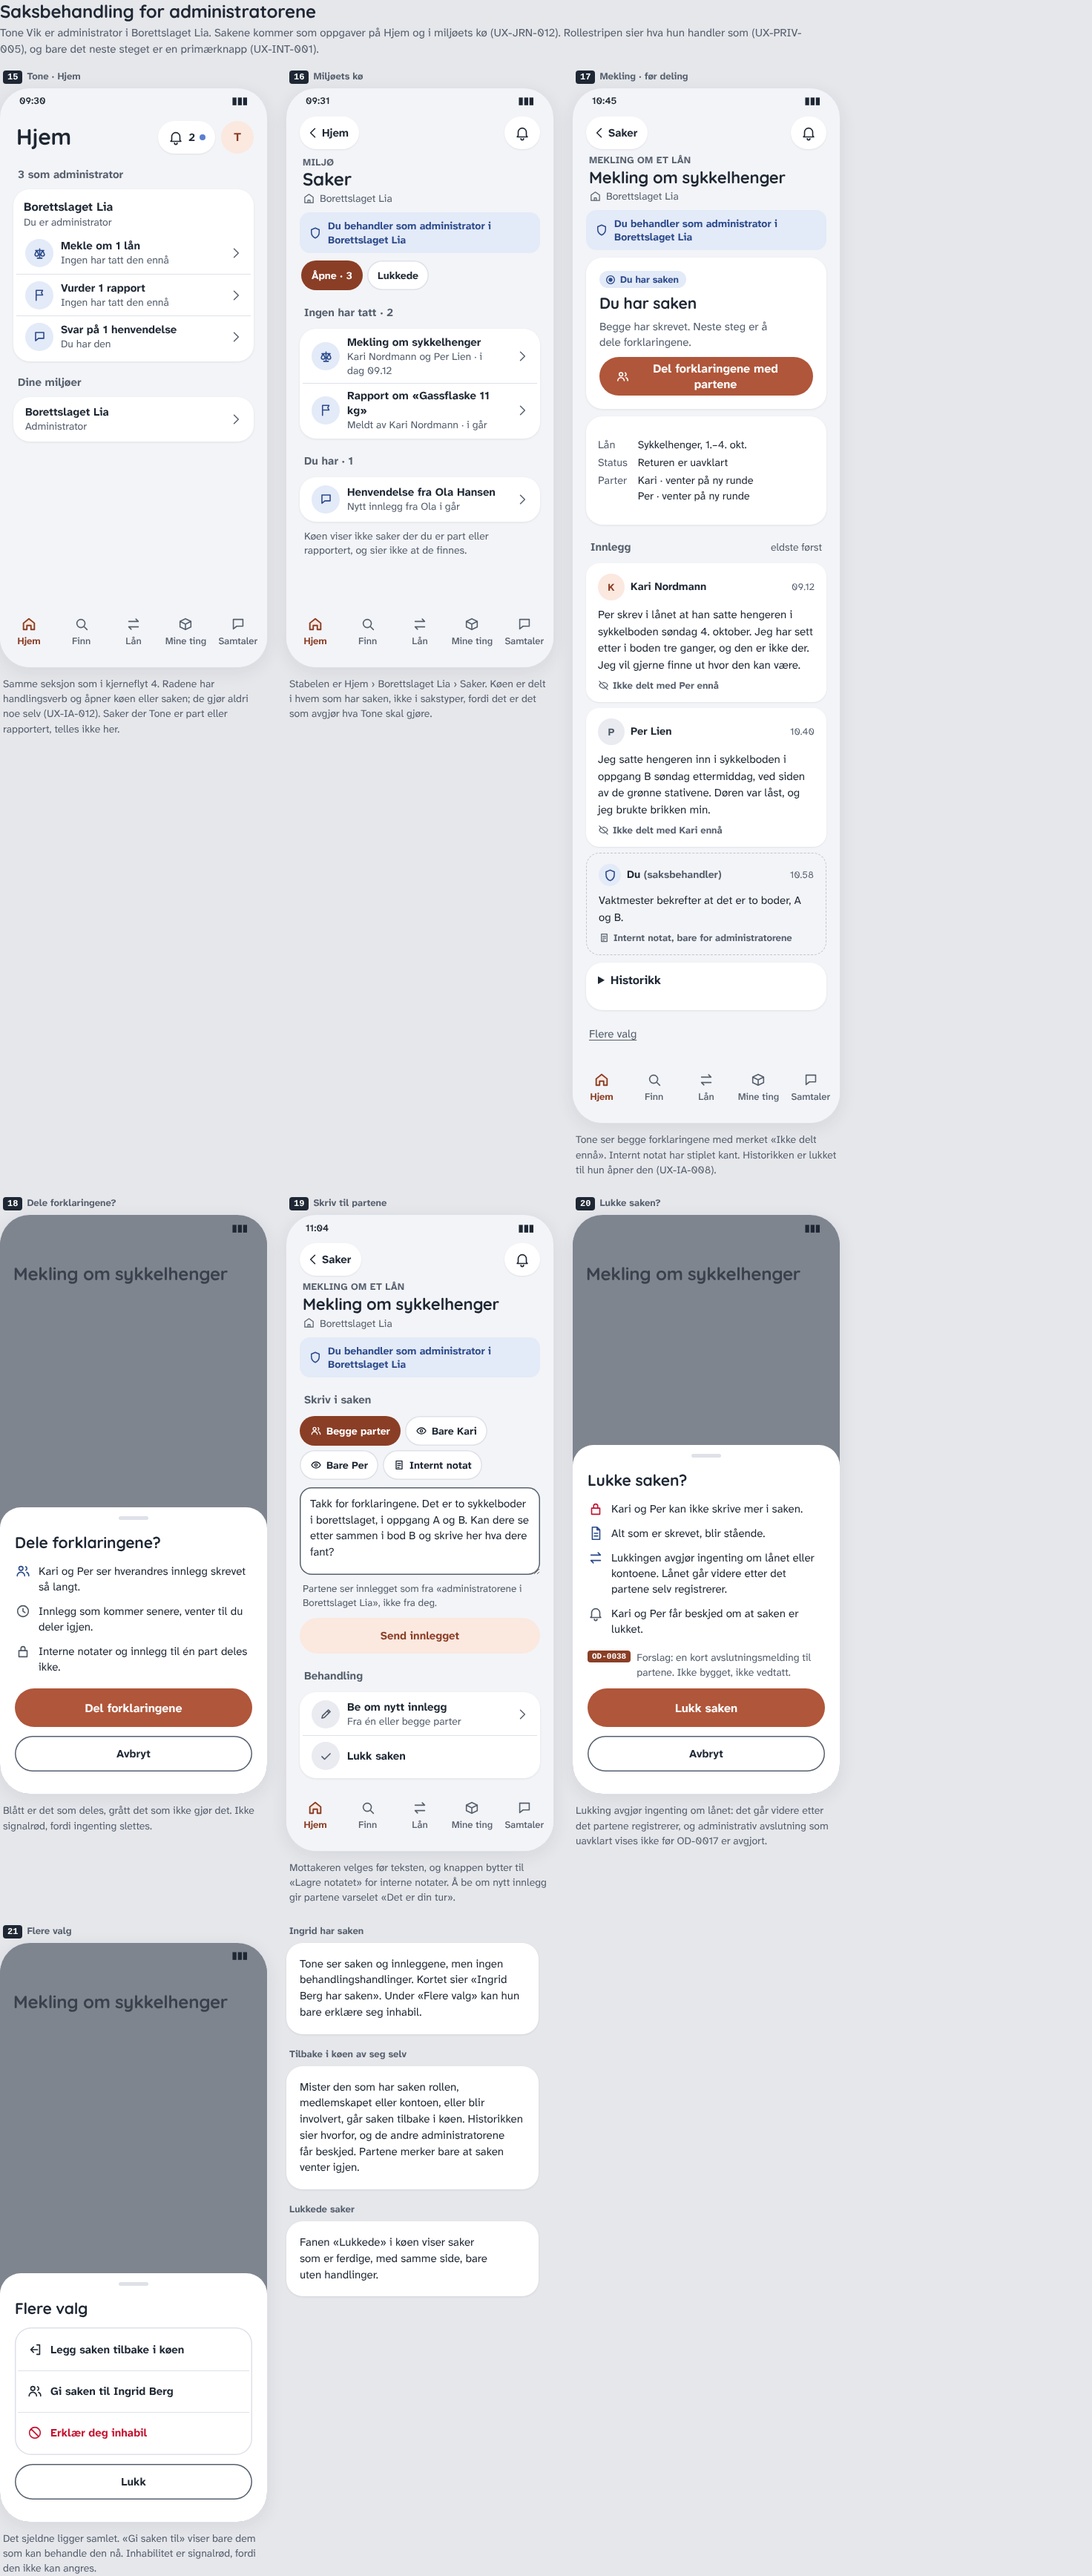
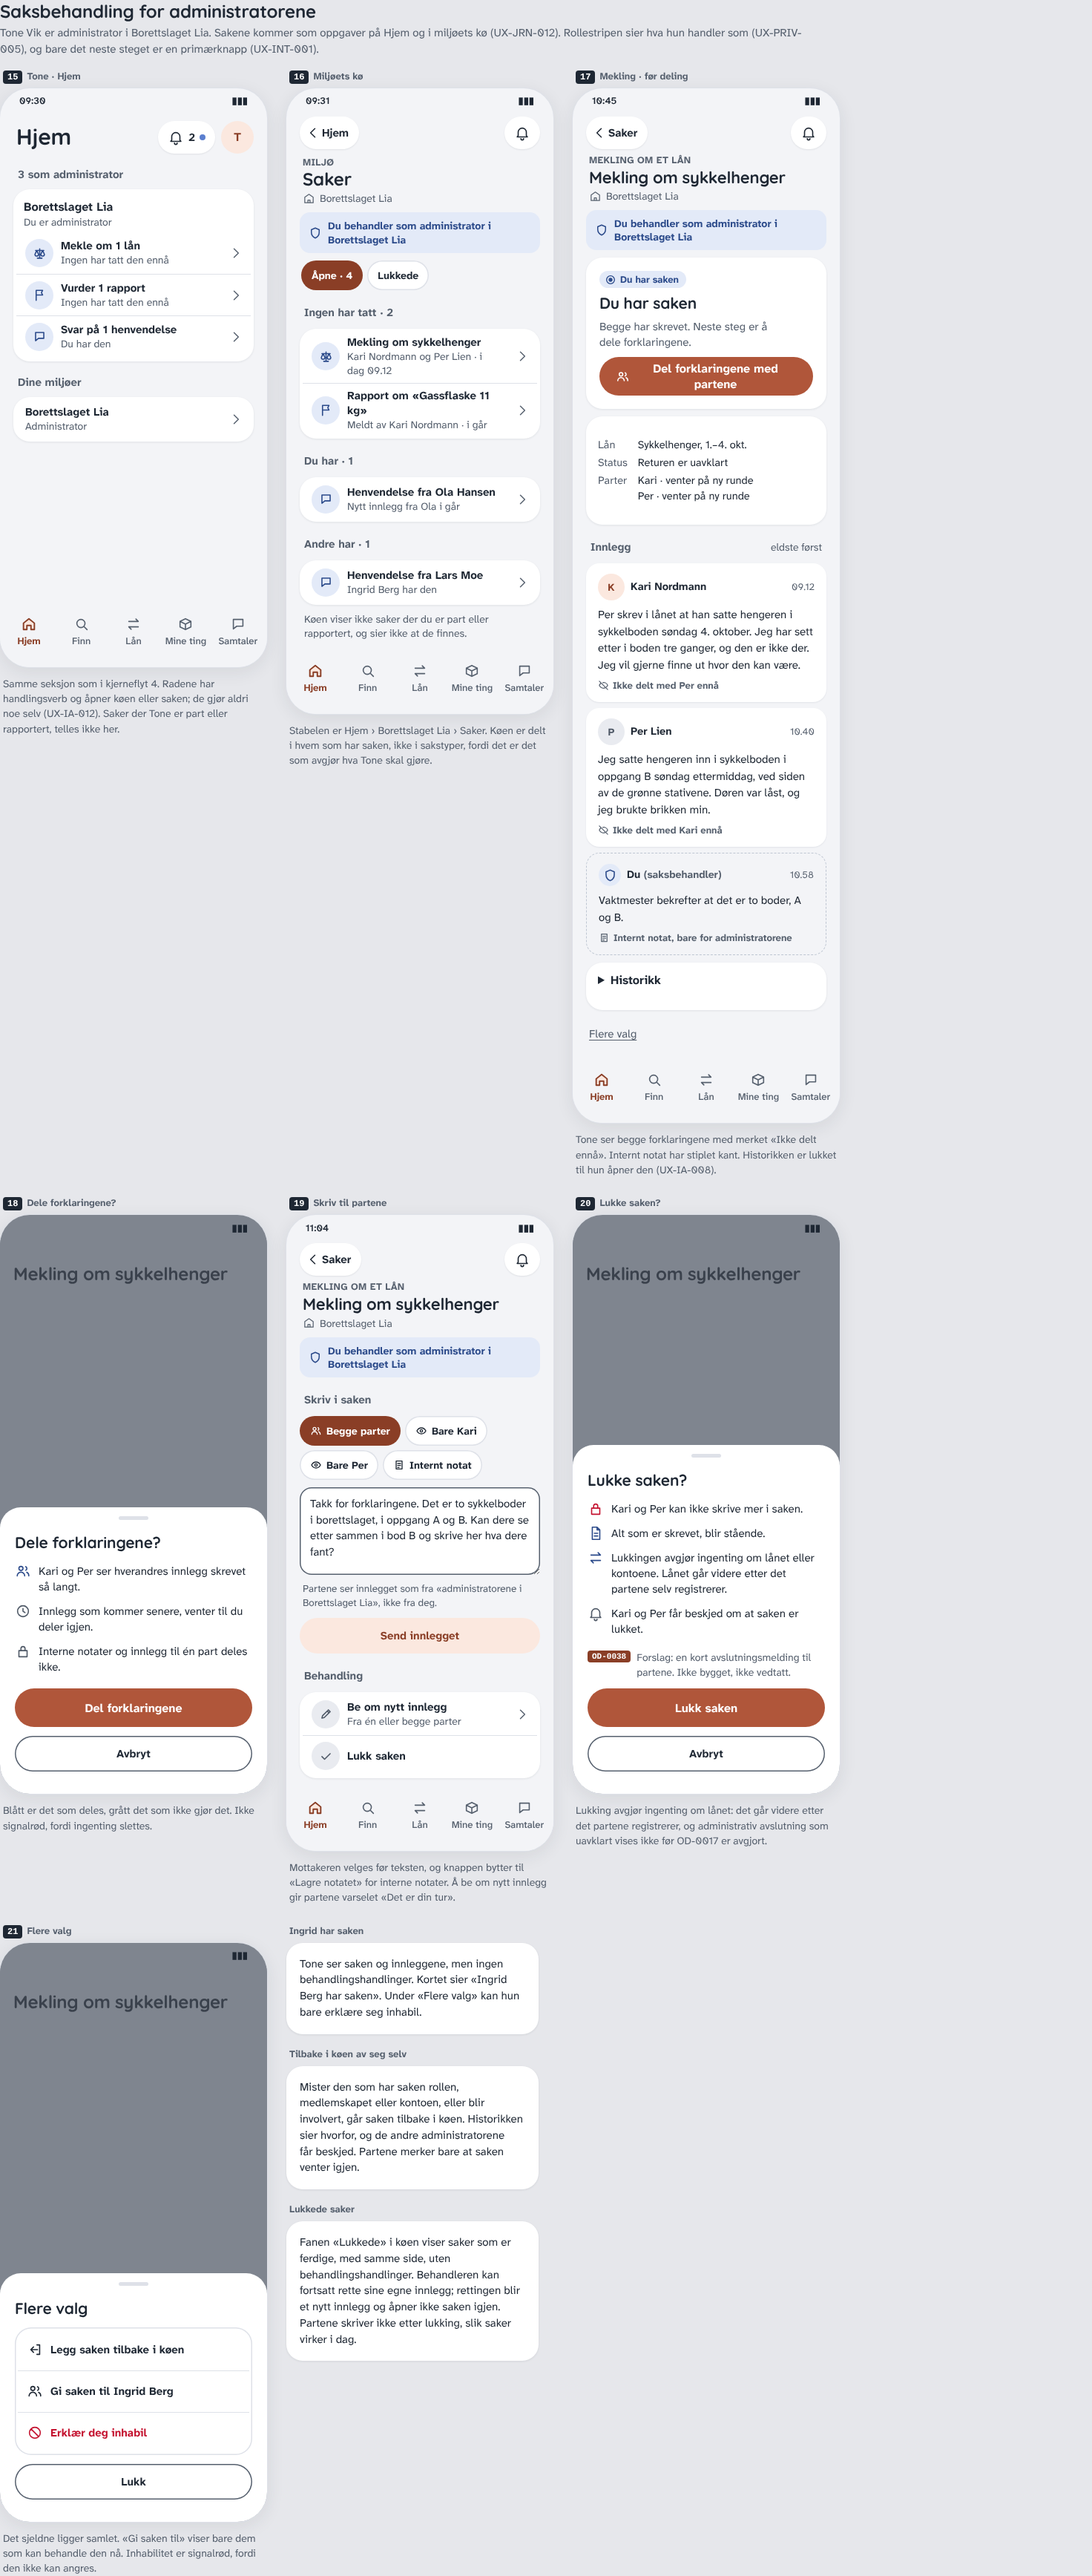
Design KF8: vis saker andre administratorer har, og behold retting etter lukking
Køen får gruppen «Andre har», slik skjerminventaret krever. En lukket sak
mister behandlingshandlingene, men behandleren kan fortsatt rette egne
innlegg som et nytt innlegg, slik domenet allerede tillater.

Claude-Session: https://claude.ai/code/session_01CesZaW8LjpHQNGPhPixaXf

Changed region(s): [[0.2812, 0.1867, 0.5, 0.3111], [0.25, 0.8712, 0.5, 0.9334]]

diff --git a/design/Lånbort - Rapportering, saker og konfliktløsning v1.html b/design/Lånbort - Rapportering, saker og konfliktløsning v1.html
@@ -398,7 +398,7 @@ const LIVE0 = () => ({
   entries:[{ id:1, by:'kari', cap:'party', aud:'parties', body:TXT.kari1, at:'09.12' }], next:2,
   may:{ kari:false, per:true }, assignee:null, recused:false, sharedUpTo:null, closed:false,
   sheet:{ kari:null, per:null, tone:null }, flash:{ kari:'', per:'', tone:'' }, aud:'parties',
-  draft:{ kari:TXT.kari2, per:TXT.per1, tone:TXT.toneAll }, busy:null, focus:null, clock:9 * 60 + 20,
+  draft:{ kari:TXT.kari2, per:TXT.per1, tone:TXT.toneAll, fix:'' }, busy:null, focus:null, clock:9 * 60 + 20,
   log:{ kari:[], per:[{ k:'opened', at:'09.12' }], tone:[{ k:'waiting', at:'09.12' }] }
 });
 let S = LIVE0();
@@ -441,6 +441,13 @@ const ACTIONS = {
   release() { S.assignee = null; return 'Saken er tilbake i køen.'; },
   transfer() { S.assignee = 'ingrid'; tell(['kari', 'per'], 'assigned'); return 'Saken er gitt til Ingrid Berg.'; },
   dorecuse() { S.recused = true; if (S.assignee === 'tone') S.assignee = null; return ''; },
+  fix() {
+    const own = S.entries.filter(e => e.by === 'tone'), old = own[own.length - 1];
+    S.entries.push({ id:S.next++, by:'tone', cap:'handler', aud:old.aud, to:old.to, body:S.draft.fix.trim() || '…', at:hhmm(S.clock), fix:old.at });
+    tell(old.aud === 'parties' ? ['kari', 'per'] : old.aud === 'party' ? [old.to] : [], 'entry');
+    S.draft.fix = '';
+    return 'Rettingen er lagt til. Det opprinnelige innlegget står som det var.';
+  },
   doclose() { S.closed = true; S.may.kari = S.may.per = false; tell(['kari', 'per'], 'closed'); return 'Saken er lukket.'; }
 };
 const CONFIRM = ['share', 'round', 'close', 'recuse', 'more'];
@@ -459,6 +466,7 @@ ${write}
 }
 
 function queueScreen(o = {}) {
+  const others = o.others === false ? [] : [mr({ lead:tic('sam'), t:'Henvendelse fra Lars Moe', s:'Ingrid Berg har den' })];
   const rows = [
     ...(o.withCase ? [mr({ lead:tic('scale'), t:'Mekling om sykkelhenger', s:'Kari Nordmann og Per Lien · i dag 09.12' })] : []),
     mr({ lead:tic('flag'), t:'Rapport om «Gassflaske 11 kg»', s:'Meldt av Kari Nordmann · i går' })
@@ -467,14 +475,15 @@ function queueScreen(o = {}) {
 <div style="padding:0 4px"><span class="ty">MILJØ</span><div class="hq" style="font-size:24px;line-height:1.15">Saker</div><div class="ctx" style="margin-top:3px">${ic('house')}${ENV}</div></div>
 ${roleStrip()}
 ${o.flash ? `<span class="flash" role="status">${ic('check')}${o.flash}</span>` : ''}
-<div class="tabs" role="tablist"><span class="sg on" role="tab" aria-selected="true">Åpne · ${rows.length + 1}</span><span class="sg" role="tab" aria-selected="false">Lukkede</span></div>
+<div class="tabs" role="tablist"><span class="sg on" role="tab" aria-selected="true">Åpne · ${rows.length + 1 + others.length}</span><span class="sg" role="tab" aria-selected="false">Lukkede</span></div>
 ${sec(`Ingen har tatt · ${rows.length}`)}<div class="cd" style="padding:2px 4px;gap:0">${rows.join('')}</div>
 ${sec('Du har · 1')}<div class="cd" style="padding:2px 4px;gap:0">${mr({ lead:tic('sam'), t:'Henvendelse fra Ola Hansen', s:'Nytt innlegg fra Ola i går' })}</div>
+${others.length ? `${sec(`Andre har · ${others.length}`)}<div class="cd" style="padding:2px 4px;gap:0">${others.join('')}</div>` : ''}
 ${o.note || ''}</div>${nav('hjem')}`;
 }
 
 function handlerScreen() {
-  if (S.recused) return queueScreen({ flash:ingrid() ? 'Du er inhabil i meklingen om sykkelhengeren. Den er tilbake i køen for de andre administratorene.' : 'Du er inhabil i meklingen om sykkelhengeren.', note:`<span class="s2" style="padding:0 6px">Saken står ikke lenger i køen din, og du kan ikke åpne den. Du får ingen varsler om den.</span>` });
+  if (S.recused) return queueScreen({ others:ingrid(), flash:ingrid() ? 'Du er inhabil i meklingen om sykkelhengeren. Den er tilbake i køen for de andre administratorene.' : 'Du er inhabil i meklingen om sykkelhengeren.', note:`<span class="s2" style="padding:0 6px">Saken står ikke lenger i køen din, og du kan ikke åpne den. Du får ingen varsler om den.</span>` });
   const busy = !!S.busy, mine = S.assignee === 'tone';
   const list = S.entries.map(e => ({ ...e, shared:shared(e) }));
   const unshared = list.some(e => e.cap === 'party' && !e.shared);
@@ -494,6 +503,11 @@ function handlerScreen() {
 <span class="hint">${S.aud === 'handlers' ? 'Bare administratorene ser notatet.' : 'Partene ser innlegget som fra «administratorene i Borettslaget Lia», ikke fra deg.'}</span>
 ${b('btn2', S.aud === 'handlers' ? 'Lagre notatet' : 'Send innlegget', 'send')}
 ${sec('Behandling')}<div class="cd" style="padding:2px 4px;gap:0">${mr({ lead:tic('pen', 'n'), t:'Be om nytt innlegg', s:'Fra én eller begge parter', act:` data-act="round" data-who="tone"` })}${unshared && !both ? mr({ lead:tic('ppl', 'n'), t:'Del forklaringene', s:'Det som er skrevet så langt', act:` data-act="share" data-who="tone"` }) : ''}${mr({ lead:tic('check', 'n'), t:'Lukk saken', end:'', act:` data-act="close" data-who="tone"` })}</div>` : '';
+  const lastOwn = [...list].reverse().find(e => e.by === 'tone');
+  const correct = S.closed && lastOwn && !busy ? `${sec('Rett en feil')}
+${field('Retting av innlegget ditt fra ' + lastOwn.at, S.draft.fix, 'Skriv hva som er riktig', ' data-draft="fix"')}
+<span class="hint">Saken åpnes ikke igjen. Rettingen blir et nytt innlegg som peker på det gamle, og de som så det gamle, ser rettingen.</span>
+${b('btn2', 'Legg til rettingen', 'fix', 'pen')}` : '';
   return `${backbar('Saker', { n:S.log.tone.length })}<div class="scr" style="gap:10px">
 ${caseHead('mediation', 'Mekling om sykkelhenger')}
 ${roleStrip()}
@@ -501,6 +515,7 @@ ${handlingCard(h, { flash:S.flash.tone, mineS:next, hqS:'Kari ba om mekling i da
 ${facts([['Lån', 'Sykkelhenger, 1.–4. okt.'], ['Status', 'Returen er uavklart'], ['Parter', mayWrite]])}
 ${entries(list, { as:'handler', me:'tone', separate:true })}
 ${handling}
+${correct}
 ${!S.closed ? `<button class="q" type="button" data-act="more" data-who="tone"${busy ? ' disabled' : ''}>Flere valg</button>` : ''}
 </div>${nav('hjem')}${S.sheet.tone || ''}`;
 }
@@ -735,7 +750,7 @@ ${sec('Behandling')}<div class="cd" style="padding:2px 4px;gap:0">${mr({ lead:ti
       `<div class="stack">
 ${note('Ingrid har saken', `<span class="s" style="color:#1E2733">Tone ser saken og innleggene, men ingen behandlingshandlinger. Kortet sier «Ingrid Berg har saken». Under «Flere valg» kan hun bare erklære seg inhabil.</span>`)}
 ${note('Tilbake i køen av seg selv', '<span class="s" style="color:#1E2733">Mister den som har saken rollen, medlemskapet eller kontoen, eller blir involvert, går saken tilbake i køen. Historikken sier hvorfor, og de andre administratorene får beskjed. Partene merker bare at saken venter igjen.</span>')}
-${note('Lukkede saker', '<span class="s" style="color:#1E2733">Fanen «Lukkede» i køen viser saker som er ferdige, med samme side, bare uten handlinger.</span>')}
+${note('Lukkede saker', '<span class="s" style="color:#1E2733">Fanen «Lukkede» i køen viser saker som er ferdige, med samme side, uten behandlingshandlinger. Behandleren kan fortsatt rette sine egne innlegg; rettingen blir et nytt innlegg og åpner ikke saken igjen. Partene skriver ikke etter lukking, slik saker virker i dag.</span>')}
 </div>`
     ] },
 
